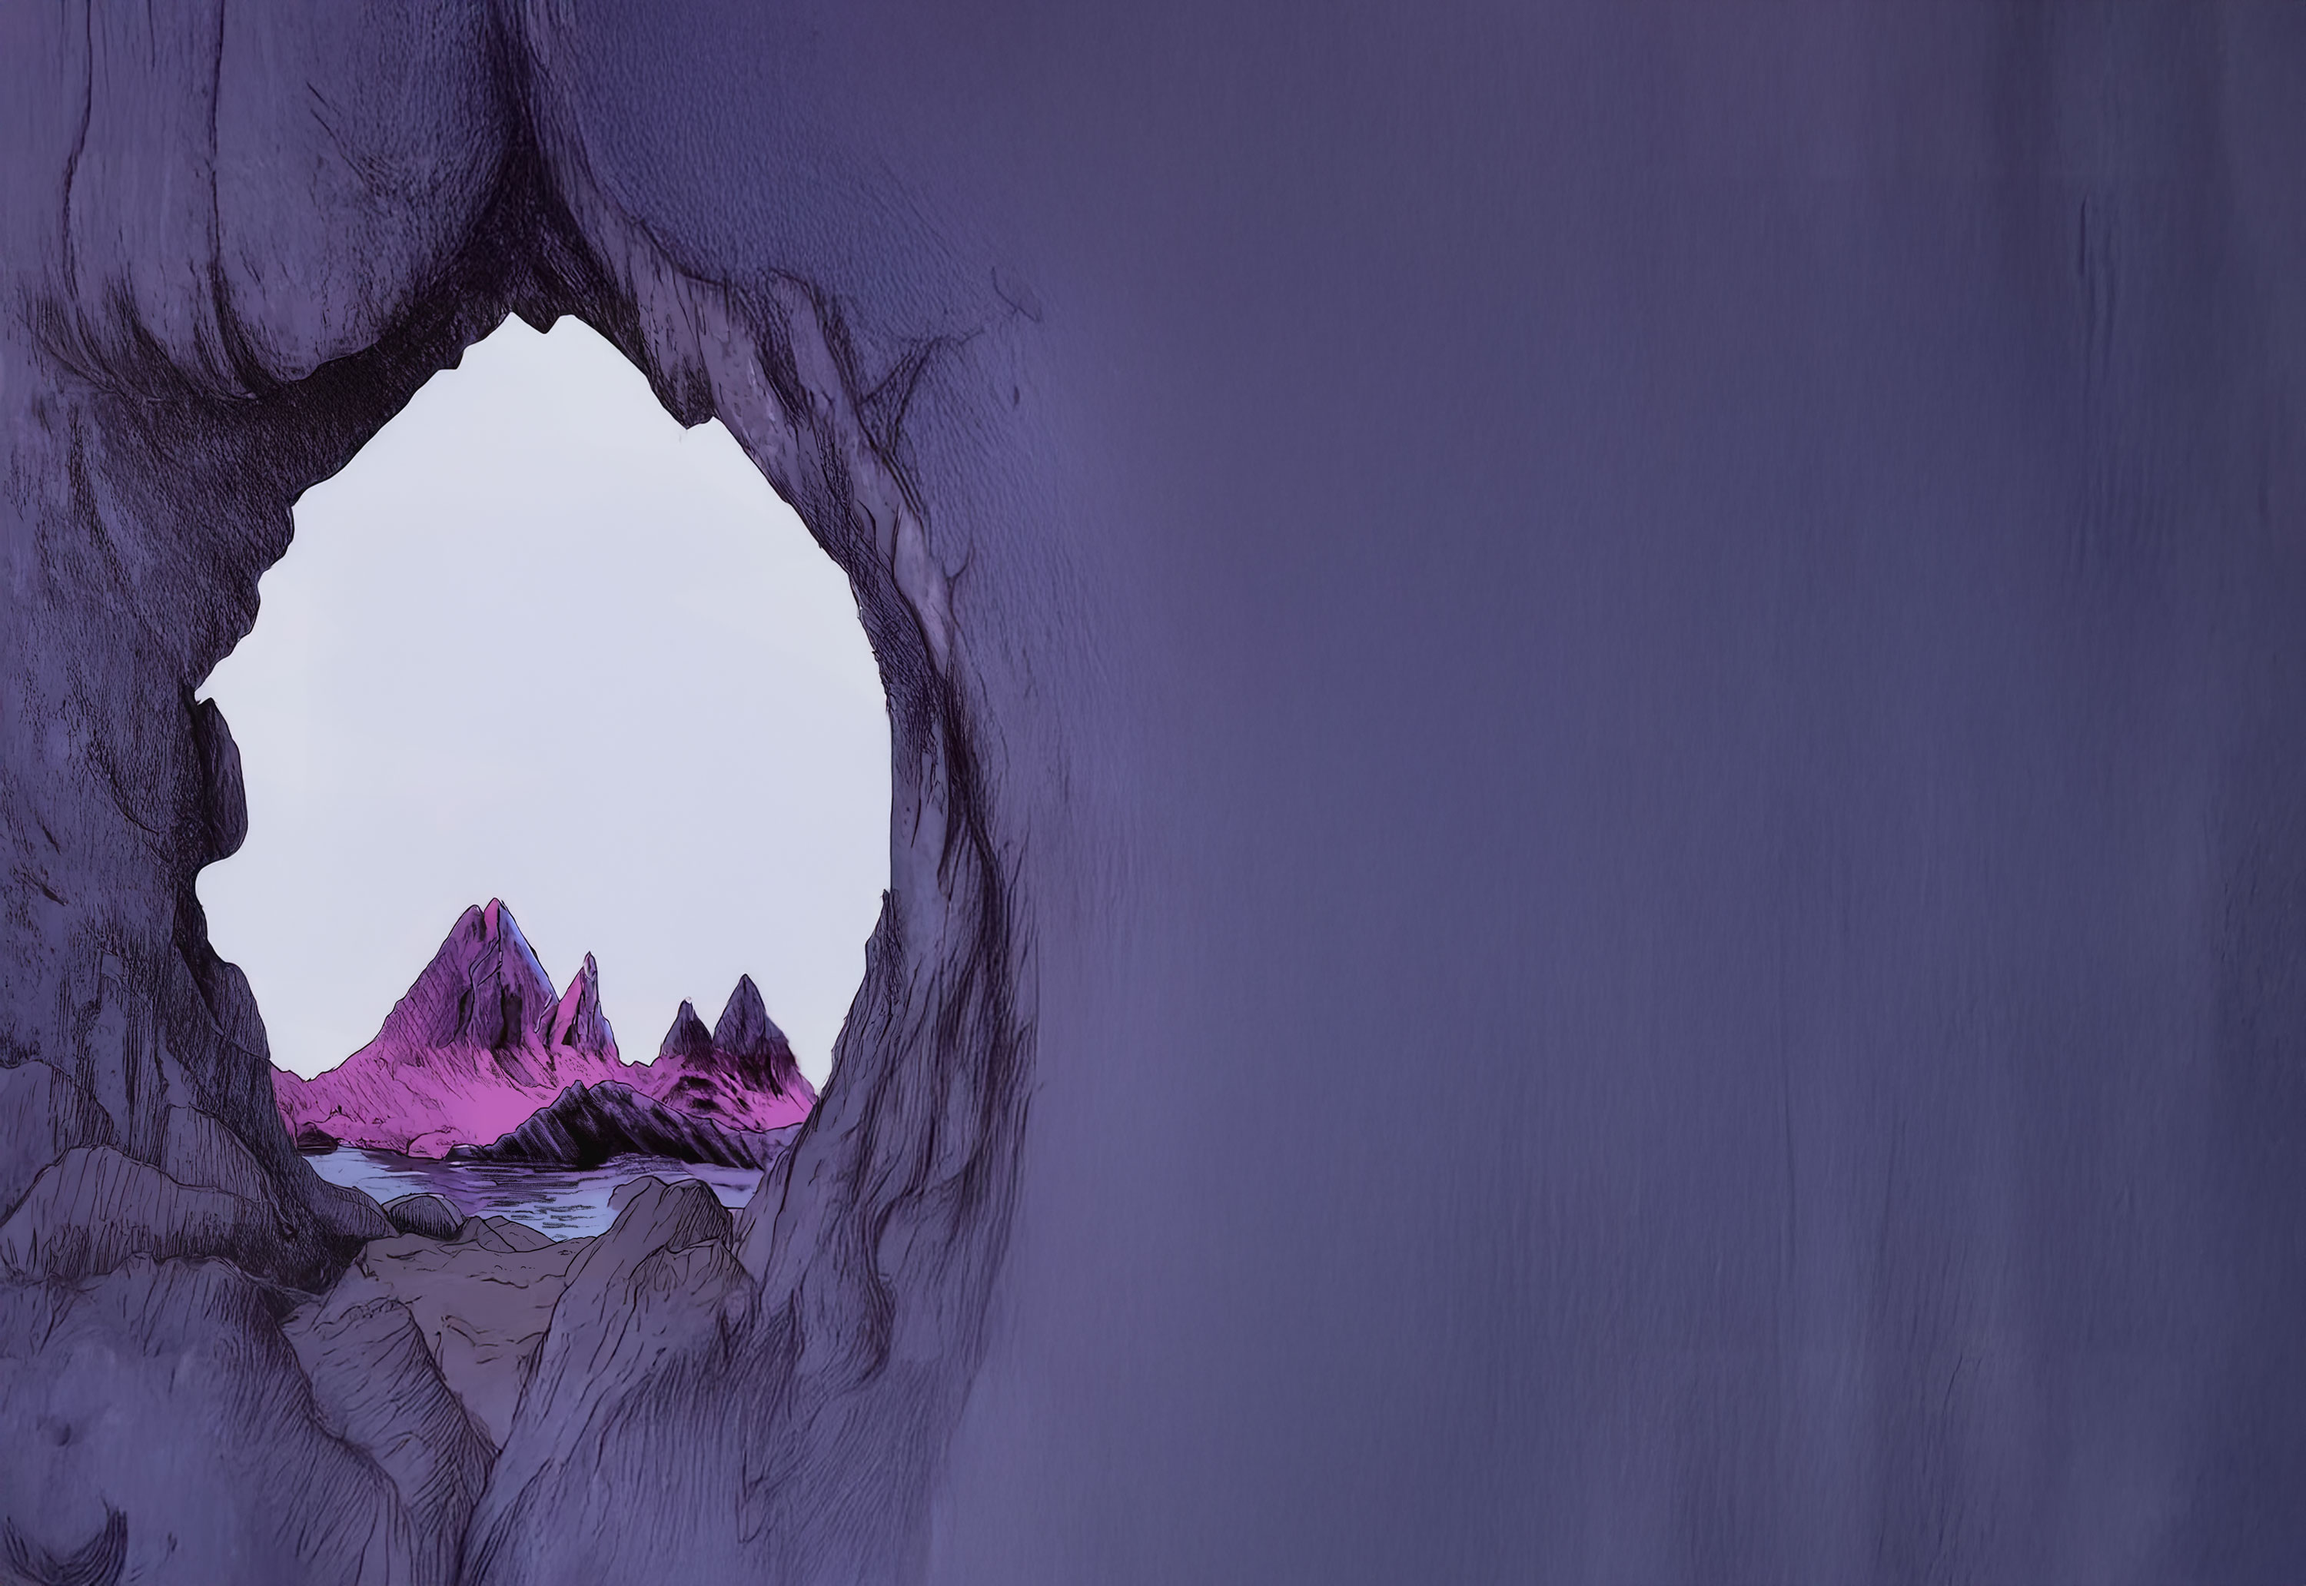
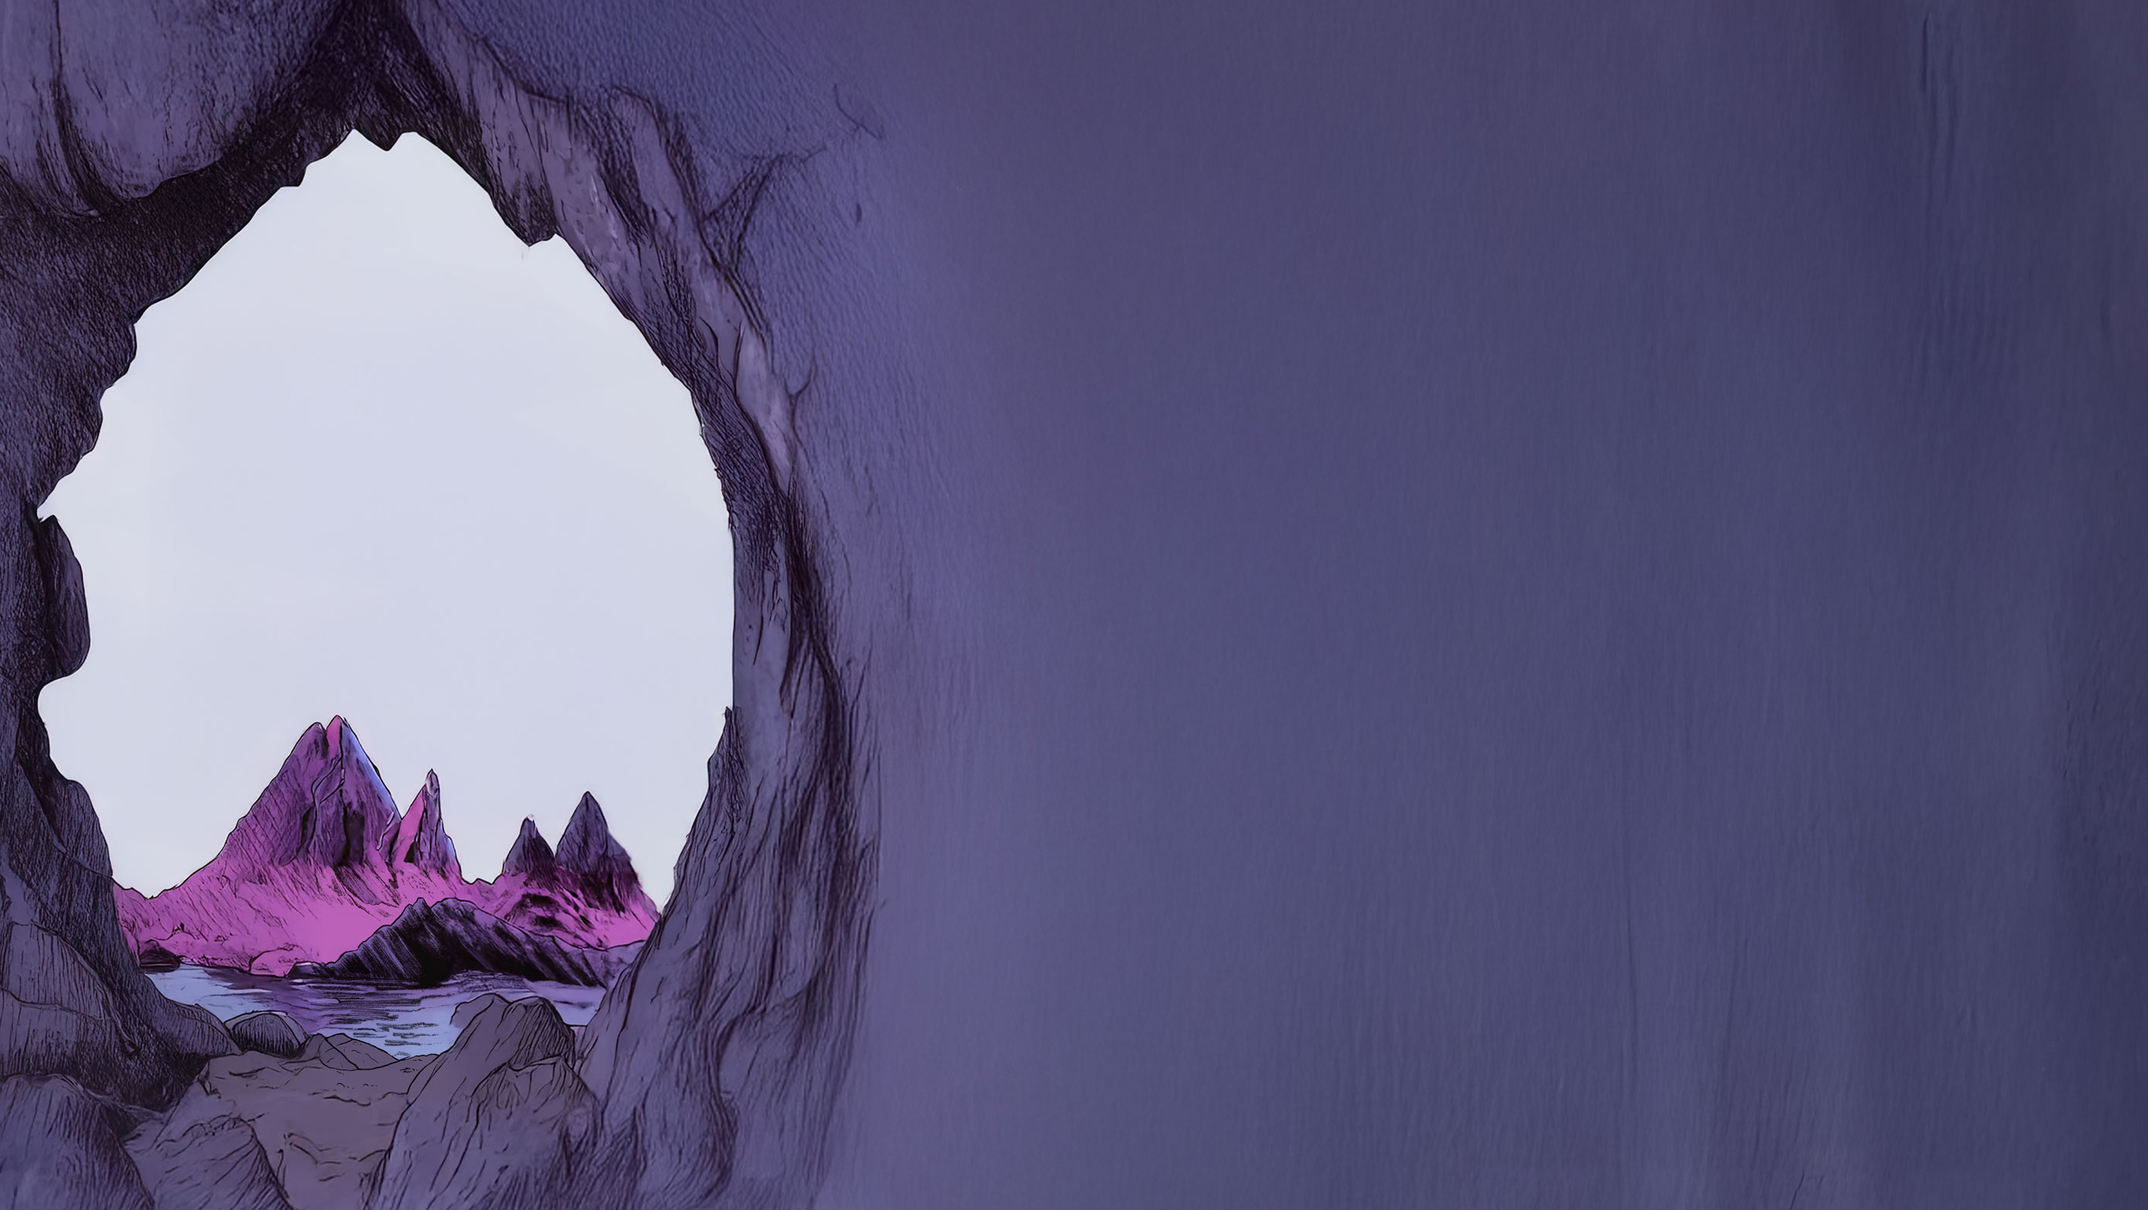
footer + shop = fini

Changed region(s): [[0.0, 0.0, 0.4669, 1.0]]

diff --git a/src/index.html b/src/index.html
@@ -12,21 +12,7 @@
   </head>
   <body>
     <header>
-      <h1>
-        <img src="img/titre.svg" alt="logo Furieuse" />
-      </h1>
-      <div class="navigation">
-        <div class="small-button">
-          <a href="">Editeur</a>
-        </div>
-        <div class="big-button">
-          <a href="">Commencer l'Aventure</a>
-        </div>
-        <div class="small-button">
-          <a href="">Shop</a>
-        </div>
-      </div>
-      <div class="scene background-title">
+      <div class="background-title">
         <div class="plan plan-1">
           <img src="img/titre-plan_1.png" />
         </div>
@@ -38,6 +24,20 @@
         </div>
         <div class="plan plan-4">
           <img src="img/titre-plan_4.png" />
+        </div>
+      </div>
+      <div class="home-element">
+        <img src="img/titre.svg" alt="logo Furieuse" />
+        <div class="navigation">
+          <div class="small-button">
+            <a href="">Editeur</a>
+          </div>
+          <div class="big-button">
+            <a href="">Commencer l'Aventure</a>
+          </div>
+          <div class="small-button">
+            <a href="">Shop</a>
+          </div>
         </div>
       </div>
     </header>
@@ -193,14 +193,10 @@
           <img src="img/livre-mockup.webp" alt="le livre" />
         </div>
         <div class="book-info">
-          <div class="titre">
-            <img src="img/titre.svg" alt="Furieuse" />
-          </div>
+          <img src="img/titre.svg" alt="Furieuse" />
           <div class="choice-button">
-            <a href="">Résumé</a>
-          </div>
-          <div class="choice-button">
-            <a href="">Créateurs</a>
+            <a href="" id="resume">Résumé</a>
+            <a href="" id="crea">Créateurs</a>
           </div>
           <div class="text-resume">
             <p>
@@ -214,7 +210,7 @@
               royaume de Pendragon. Devenue témoin de sa déchéance, l'arme
               enchantée s'ennuie ferme tandis que la princesse Ysabelle fulmine
               car son débris de père l'a promise en mariage à l'ignoble petit
-              baron de Cumbre. Toutes deux bien décidées à se trouver un
+              baron de Cumbre. <br />Toutes deux bien décidées à se trouver un
               meilleur destin, Ysa et l'épée s'allient pour fuir le château et
               partir à la recherche de Merlin et de Maxine, la grande soeur
               disparue. Mais le vaste monde peut se montrer bien cruel pour une
@@ -260,9 +256,11 @@
         <div class="newsletter">
           <div class="title">
             <h4>Newsletter</h4>
-            <input type="text" name="email" placeholder="Email" />
-            <div class="submit-button">
-              <a href="">Je m'inscris</a>
+            <div class="send">
+              <input type="text" name="email" placeholder="dargaud@gmail.com" />
+              <div class="submit-button">
+                <a href="">Je m'inscris !</a>
+              </div>
             </div>
           </div>
         </div>

diff --git a/src/css/main.css b/src/css/main.css
@@ -23,7 +23,6 @@ header {
   margin: 0;
   padding: 0;
   overflow: hidden;
-  position: relative;
 }
 
 header .navigation {
@@ -50,16 +49,40 @@ header .navigation {
 }
 
 .book-shop {
-  background-image: url(../img/shop-background.jpg);
+  background-image: url(../img/shop-background-2.jpg);
   background-size: cover;
-  background-position-y: -90;
+  background-position: center;
   height: 100vh;
   width: 100svw;
   overflow: hidden;
   position: relative;
   display: flex;
+  align-items: center;
   flex-direction: row;
   color: white;
+}
+
+.book-shop .book {
+  width: 40%;
+  display: flex;
+  flex-direction: column;
+  align-items: center;
+  justify-content: center;
+  padding-left: 150px;
+}
+
+.book-info {
+  width: 60%;
+  display: flex;
+  flex-direction: column;
+  align-items: flex-start;
+  justify-content: center;
+  padding-left: 250px;
+  padding-right: 100px;
+}
+
+.book-shop .book img {
+  width: 110%;
 }
 
 footer {
@@ -78,7 +101,7 @@ footer .social-media img {
 
 footer img {
   width: 80%;
-  margin-bottom: 15px;
+  margin-bottom: 16px;
 }
 
 .contact {
@@ -95,7 +118,7 @@ footer .information {
   display: flex;
   flex-direction: row;
   justify-content: space-between;
-  margin-bottom: 40px;
+  margin-bottom: 60px;
 }
 
 footer .credits {
@@ -109,6 +132,11 @@ footer .mentions-legales {
   display: flex;
   flex-direction: column;
   align-items: flex-end;
+}
+
+footer .mentions-legales h5 {
+  font-size: 18px;
+  font-weight: 300;
 }
 
 .small-button {
@@ -133,4 +161,83 @@ footer .mentions-legales {
   padding-bottom: 7px;
   font-size: 24px;
   text-decoration: none;
+}
+
+footer .send {
+  display: flex;
+  flex-direction: row;
+}
+
+input {
+  border-radius: 20px;
+  border: none;
+  padding-left: 15px;
+  padding-right: 60px;
+  margin-right: 8px;
+}
+
+.newsletter h4 {
+  font-size: 32px;
+  margin-bottom: 14px;
+}
+
+.submit-button {
+  border-radius: 20px;
+  border: solid 2px;
+  padding: 5px 24px;
+}
+
+.submit-button a {
+  text-decoration: none;
+}
+
+.credits h6 {
+  font-size: 14px;
+  font-weight: lighter;
+}
+
+.choice-button a {
+  text-decoration: none;
+  margin-right: 15px;
+}
+
+.choice-button {
+  margin-bottom: 12px;
+  margin-top: 70px;
+}
+
+.small-button a {
+  text-decoration: none;
+}
+
+.big-button a {
+  text-decoration: none;
+}
+
+.book-info img {
+  width: 50%;
+}
+
+.book-shop p {
+  margin-bottom: 70px;
+  line-height: 1.6;
+}
+
+.home-element {
+  display: flex;
+  flex-direction: column;
+  align-items: center;
+  justify-content: center;
+  position: absolute;
+}
+
+.background-title {
+  height: 100vh;
+  width: 100svw;
+  margin: 0;
+  padding: 0;
+  position: absolute;
+}
+
+.choice-button a #crea {
 }
